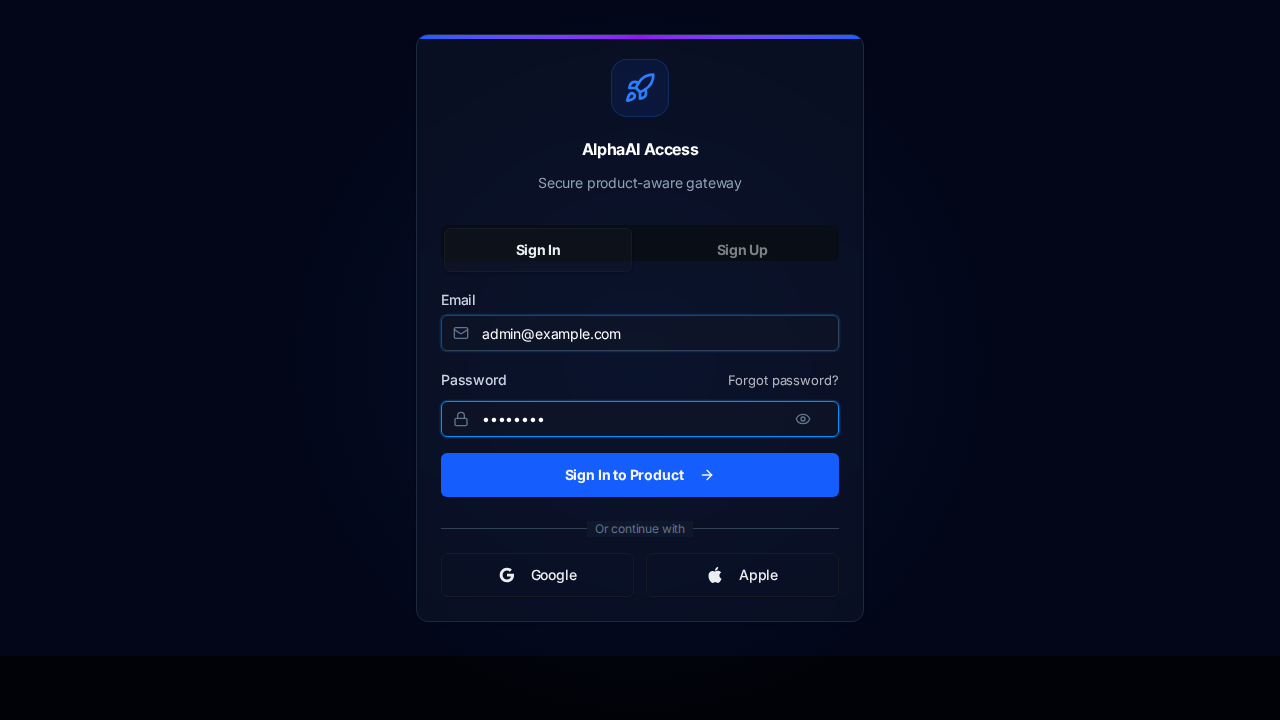
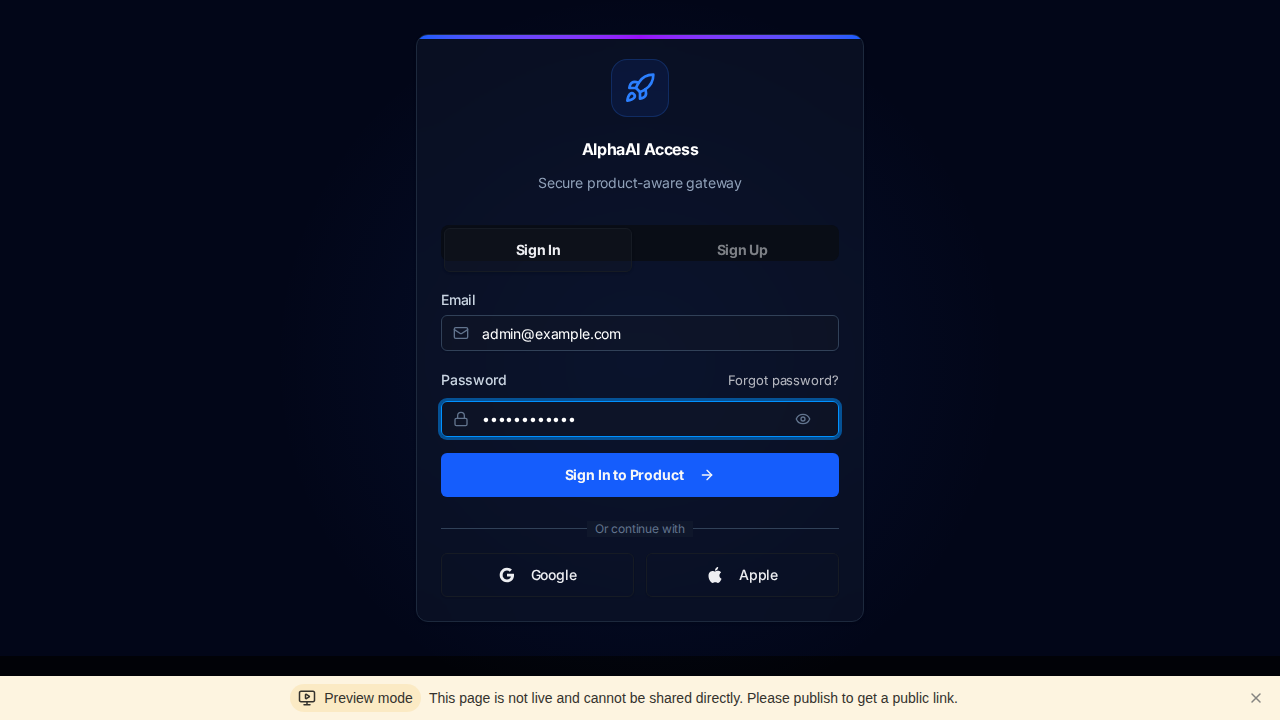
Fix: streamConfig ReferenceError in AlphaAgentOps and general UI/Auth updates

Changed region(s): [[0.0, 0.9167, 1.0, 1.0], [0.3438, 0.55, 0.6562, 0.6111]]

diff --git a/client/src/contexts/AuthContext.tsx b/client/src/contexts/AuthContext.tsx
@@ -43,59 +43,62 @@ export function AuthProvider({ children }: { children: ReactNode }) {
 
   const checkAuth = async () => {
     const token = localStorage.getItem("auth_token");
-    console.log("[Auth] checkAuth - token exists:", !!token);
+    console.log("[Auth] checkAuth - token found:", !!token);
 
     if (!token) {
-      console.log("[Auth] checkAuth - no token, setting loading to false");
+      console.log("[Auth] checkAuth - no token, user remains null");
       setIsLoading(false);
       return;
     }
 
     try {
-      console.log("[Auth] checkAuth - calling /me API");
+      console.log("[Auth] checkAuth - calling /me API with token");
       const userData = await authApi.me();
-      console.log("[Auth] checkAuth - user loaded:", userData.email);
+      console.log("[Auth] checkAuth - user loaded successfully:", userData.email);
       debugSetUser(userData);
-    } catch (error) {
-      console.error("[Auth] checkAuth failed:", error);
-      console.log("[Auth] checkAuth - removing invalid token");
-      localStorage.removeItem("auth_token");
-      setUser(null);
+    } catch (error: any) {
+      console.error("[Auth] checkAuth failed:", error.message);
+      // Only clear if it's a real 401, not a network failure
+      if (error.message.includes("401") || error.message.includes("Unauthorized") || error.message.includes("not found")) {
+        console.log("[Auth] checkAuth - removing invalid/expired token");
+        localStorage.removeItem("auth_token");
+        setUser(null);
+      } else {
+        console.log("[Auth] checkAuth - potential network error, keeping token for retry");
+      }
     } finally {
       setIsLoading(false);
     }
   };
 
   const login = async (email: string, password: string, productId?: string) => {
-    console.log("[Auth] login called for:", email);
+    console.log("[Auth] login attempt for:", email);
     try {
       const data = await authApi.login(email, password, productId);
-      console.log("[Auth] login response:", data.user?.email);
+      console.log("[Auth] login API success, user:", data.user?.email);
 
       if (data.requiresProductSelection) {
+        console.log("[Auth] product selection required, returning available products");
         return {
           requiresSelection: true,
           availableProducts: data.availableProducts,
         };
       }
 
-      if (data.accessToken && data.user) {
-        console.log("[Auth] Saving camelCase token");
-        localStorage.setItem("auth_token", data.accessToken);
-        debugSetUser(data.user);
-      } else if (data.access_token && data.user) {
-        // Handle snake_case response from backend
-        console.log("[Auth] Saving snake_case token");
-        localStorage.setItem("auth_token", data.access_token);
+      const token = data.accessToken || data.access_token;
+      if (token && data.user) {
+        console.log("[Auth] token and user confirmed, saving to localStorage");
+        localStorage.setItem("auth_token", token);
         debugSetUser(data.user);
       } else {
-        console.log("[Auth] No token or user in response:", {
-          hasToken: !!(data.accessToken || data.access_token),
+        console.warn("[Auth] login response missing token or user data:", {
+          hasToken: !!token,
           hasUser: !!data.user,
         });
       }
       return {};
     } catch (error: any) {
+      console.error("[Auth] login function failed:", error.message);
       throw new Error(error.message || "Login failed");
     }
   };
@@ -177,7 +180,10 @@ export function AuthProvider({ children }: { children: ReactNode }) {
         isLoading,
         isAuthenticated: !!user,
         isDemo: false,
-        isManagement: user?.role === "admin" || user?.role === "management",
+        isManagement:
+          user?.role === "admin" ||
+          user?.role === "management" ||
+          user?.role === "enterprise",
         login,
         signUp,
         logout,

diff --git a/client/src/pages/Login.tsx b/client/src/pages/Login.tsx
@@ -1,5 +1,5 @@
 import { useState, useEffect } from "react";
-import { Link, useSearch } from "wouter";
+import { Link, useSearch, useLocation } from "wouter";
 import { useAuth } from "@/contexts/AuthContext";
 import {
   Card,
@@ -79,7 +79,8 @@ const PRODUCT_MAPPING: Record<
 };
 
 export default function Login() {
-  const { login, signUp, isAuthenticated } = useAuth();
+  const { login, signUp, isAuthenticated, isLoading: authLoading } = useAuth();
+  const [, setLocation] = useLocation();
   const search = useSearch();
   const params = new URLSearchParams(search);
   const initialProduct = params.get("product") || "";
@@ -98,15 +99,16 @@ export default function Login() {
 
   // Auto-redirect when authentication succeeds
   useEffect(() => {
-    if (isAuthenticated && !isLoading) {
-      console.log("[Login] Authentication detected, redirecting...");
+    // Only redirect if authenticated and NOT currently performing an action
+    if (isAuthenticated && !isLoading && !authLoading) {
+      console.log("[Login] User authenticated, preparing SPA redirect...");
       const productKey = selectedProduct || "agent-ops";
-      const redirectUrl =
-        PRODUCT_MAPPING[productKey]?.path || "/products/agent-ops";
-      console.log("[Login] Redirecting authenticated user to:", redirectUrl);
-      window.location.href = redirectUrl;
+      const redirectUrl = PRODUCT_MAPPING[productKey]?.path || "/products/agent-ops";
+      
+      console.log("[Login] Navigating to:", redirectUrl);
+      setLocation(redirectUrl);
     }
-  }, [isAuthenticated, isLoading, selectedProduct]);
+  }, [isAuthenticated, isLoading, authLoading, selectedProduct, setLocation]);
 
   const handleOAuthLogin = async (provider: "google" | "apple") => {
     setIsLoading(true);
@@ -334,7 +336,10 @@ export default function Login() {
                     </div>
 
                     {error && (
-                      <div className="p-3 text-sm text-red-400 bg-red-500/10 rounded-lg border border-red-500/20">
+                      <div
+                        data-testid="error-message"
+                        className="p-3 text-sm text-red-400 bg-red-500/10 rounded-lg border border-red-500/20"
+                      >
                         {error}
                       </div>
                     )}
@@ -344,18 +349,6 @@ export default function Login() {
                       className="w-full bg-blue-600 hover:bg-blue-700 font-bold"
                       disabled={isLoading}
                       data-testid="btn-signin"
-                      onClick={e => {
-                        console.log("[Login] Button clicked");
-                        // If form submission doesn't work, try manual call
-                        setTimeout(() => {
-                          if (!isLoading) {
-                            console.log(
-                              "[Login] Form might not have submitted, trying manual call"
-                            );
-                            handleLogin(e as any);
-                          }
-                        }, 100);
-                      }}
                     >
                       {isLoading ? (
                         <>

diff --git a/client/src/tests/login.spec.ts b/client/src/tests/login.spec.ts
@@ -50,7 +50,7 @@ test.describe("Authentication", () => {
 
     // Fill in login credentials
     await page.fill('input[type="email"]', "admin@example.com");
-    await page.fill('input[type="password"]', "admin123");
+    await page.fill('input[type="password"]', "AlphaAI@2026");
 
     // Take screenshot before submitting
     await page.screenshot({ path: "debug-before-form-submit.png" });
@@ -80,17 +80,19 @@ test.describe("Authentication", () => {
     );
     console.log("API-related logs:", apiRequests);
 
-    // If we see handleLogin logs, the form submission worked
-    const handleLoginCalled = logs.some(log =>
-      log.includes("handleLogin called")
-    );
+    // Check various indicators of login success
+    const handleLoginCalled = logs.some(log => log.includes("Got result:"));
     const loginResponseReceived = logs.some(log =>
       log.includes("login response")
     );
     const redirectAttempted = logs.some(log => log.includes("Redirecting to"));
+    const authDetected = logs.some(log =>
+      log.includes("Authentication detected")
+    );
     console.log("handleLogin was called:", handleLoginCalled);
     console.log("Login response received:", loginResponseReceived);
     console.log("Redirect attempted:", redirectAttempted);
+    console.log("Auth state change detected:", authDetected);
 
     if (handleLoginCalled) {
       console.log("✅ Form submission is working!");

diff --git a/client/src/lib/api.ts b/client/src/lib/api.ts
@@ -202,6 +202,28 @@ async function apiRequest<T>(
         return options.fallback;
       }
 
+      // Handle 401 Unauthorized globally for protected routes
+      if (
+        response.status === 401 &&
+        token &&
+        !finalUrl.includes("/auth/login") &&
+        !finalUrl.includes("/auth/register")
+      ) {
+        console.warn(
+          "[API Error] 401 Unauthorized detected. Clearing session and redirecting."
+        );
+        localStorage.removeItem("auth_token");
+
+        // Use window.location as fallback if SPA navigation is not available in non-React contexts
+        // But aim for simple redirect here
+        if (
+          !window.location.pathname.includes("/login") &&
+          !window.location.pathname.includes("/signup")
+        ) {
+          window.location.href = "/login";
+        }
+      }
+
       throw new Error(errorMessage);
     }
 

diff --git a/client/src/pages/AlphaAgentOps.tsx b/client/src/pages/AlphaAgentOps.tsx
@@ -748,6 +748,10 @@ export default function AlphaAgentOps() {
   const [isGeneratingStrategy, setIsGeneratingStrategy] = useState(false);
   const [showConfigureStreamDialog, setShowConfigureStreamDialog] =
     useState(false);
+  const [streamConfig, setStreamConfig] = useState({
+    p95_latency_ms: 250,
+    connected_agents: 12,
+  });
 
   // Hardened Logic Handlers (UC12, UC13, UC14)
   const [isProvisioningClient, setIsProvisioningClient] = useState(false);
